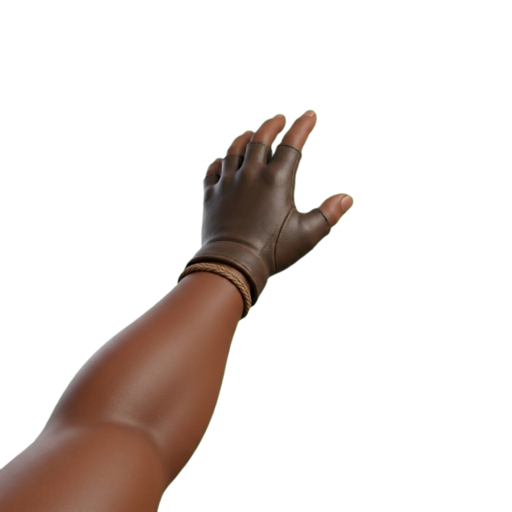
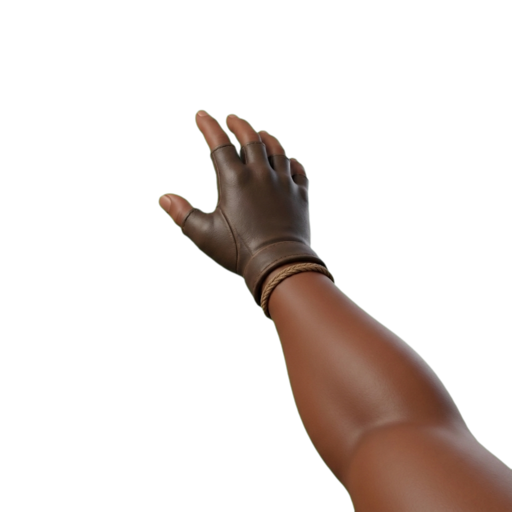
Realistic cockpit view and panel, and smoother cockpit hands
- Windshield view: the base camp's volcano and sunset at the end of the
  strip, a perspective dirt runway and grass that scroll as you roll, and
  photo treelines receding down both sides.
- Panel in black crinkle-finish metal with warm light from the windshield,
  and a textured glareshield.
- Hands: Wren's hand art now faces the same way as the others, and a new
  reach glides from where the hand already is instead of snapping back.

diff --git a/cockpit.js b/cockpit.js
@@ -143,26 +143,121 @@ function zombieDepth(z, p, t, T) {
   return z.z0 + (z.zEnd - z.z0) * Math.pow(k, 0.7) - p.dist;
 }
 
+// ---------- photo art for the cockpit (assets/cockpit and the jungle's ground textures) ----------
+const photos = {};
+const photo = src => photos[src] || (photos[src] = Object.assign(new Image(), { src }));
+const loaded = im => im.complete && im.naturalWidth > 0;
+['assets/cockpit/sky.webp', 'assets/cockpit/treeline.webp', 'assets/cockpit/panel.jpg', 'assets/cockpit/glare.jpg', 'assets/jungle/strip.jpg', 'assets/jungle/clear.jpg'].forEach(photo);
+const pats = new Map();
+function photoPattern(ctx, src) {
+  const key = src;
+  if (pats.has(key)) return pats.get(key);
+  const im = photo(src);
+  if (!loaded(im)) return null;
+  const pt = ctx.createPattern(im, 'repeat');
+  pats.set(key, pt);
+  return pt;
+}
+
+// The ground ahead in true perspective: each screen row is a slice of the dirt strip and the grass beside it,
+// at the depth that row looks at. As the plane rolls, the texture slides toward you, so the runway really moves.
+function photoGround(ctx, p, hy, camH, cx, W, L, R, bottom) {
+  const strip = photoPattern(ctx, 'assets/jungle/strip.jpg'), grass = photoPattern(ctx, 'assets/jungle/clear.jpg');
+  if (!strip || !grass || !strip.setTransform) return false;
+  const TILE = 1.6;   // world units per texture tile
+  for (let y = Math.ceil(hy + 1); y < bottom; y += 2) {
+    const z = camH / (y - hy);
+    if (z > 400) continue;
+    const s = W * 0.22 / z * TILE / 512, v = (z + p.dist) * 512 / TILE;
+    const m = new DOMMatrix().translate(cx, y).scale(s, s).translate(0, -v);
+    grass.setTransform(m); ctx.fillStyle = grass; ctx.fillRect(L, y, R - L, 2);
+    const half = W * 0.22 / z;   // the strip runs from x = -1 to x = 1
+    strip.setTransform(m); ctx.fillStyle = strip; ctx.fillRect(cx - half, y, half * 2, 2);
+  }
+  // the far end fades into the dusk haze, and the ground darkens toward you away from the sunset
+  const haze = ctx.createLinearGradient(0, hy, 0, hy + 70);
+  haze.addColorStop(0, 'rgba(150,90,110,0.85)'); haze.addColorStop(1, 'rgba(150,90,110,0)');
+  ctx.fillStyle = haze; ctx.fillRect(L, hy, R - L, 70);
+  const dusk = ctx.createLinearGradient(0, hy, 0, bottom);
+  dusk.addColorStop(0, 'rgba(40,20,50,0.15)'); dusk.addColorStop(1, 'rgba(20,10,25,0.45)');
+  ctx.fillStyle = dusk; ctx.fillRect(L, hy, R - L, bottom - hy);
+  return true;
+}
+// the jungle on both sides of the strip: one continuous photo treeline per side, receding in perspective.
+// It is drawn as thin vertical slices from the far end toward you; each slice samples the photo at its true
+// proportions, and the photo scrolls with the distance rolled, so the trees slide past as you speed up.
+const hazed = [];
+function hazeCopies(im) {
+  if (hazed.length) return hazed;
+  for (const a of [0, 0.25, 0.5, 0.7]) {   // dusk haze baked into copies, so it only tints the trees themselves
+    const c = document.createElement('canvas'); c.width = im.naturalWidth; c.height = im.naturalHeight;
+    const g = c.getContext('2d'); g.drawImage(im, 0, 0);
+    if (a) { g.globalCompositeOperation = 'source-atop'; g.fillStyle = `rgba(120,80,110,${a})`; g.fillRect(0, 0, c.width, c.height); }
+    hazed.push(c);
+  }
+  return hazed;
+}
+function photoTrees(ctx, p, t, hy, camH, sx, proj, L, R) {
+  const im = photo('assets/cockpit/treeline.webp');
+  if (!loaded(im)) return false;
+  const copies = hazeCopies(im), iw = im.naturalWidth, ih = im.naturalHeight;
+  const W = VW, TREE_H = 1.5;            // trees a bit taller than the strip is wide
+  const pxPerUnit = ih / TREE_H;         // photo pixels per world unit along the wall, keeping its proportions
+  for (const side of [-1, 1]) {
+    let prevX = null;
+    for (let z = 70; z > 0.6; z *= 0.93) {
+      const zn = z * 0.93;
+      const xa = sx(side * 2.3, z), xb = sx(side * 2.3, zn);
+      const w = Math.abs(xb - xa) + 1;
+      const h = W * 0.22 * TREE_H / z, gy = proj(z) + 3;
+      const left = Math.min(xa, xb);
+      if (left > R + 20 || left + w < L - 20) continue;
+      let u = ((z + p.dist) * pxPerUnit * (side < 0 ? 1 : 0.83) + (side < 0 ? 0 : iw * 0.5)) % iw;
+      const du = Math.max(1, (z - zn) * pxPerUnit);
+      if (u + du > iw) u = 0;
+      const lvl = z > 30 ? 3 : z > 15 ? 2 : z > 6 ? 1 : 0;
+      ctx.drawImage(copies[lvl], u, 0, du, ih, left, gy - h, w, h);
+      prevX = xb;
+    }
+    void prevX;
+  }
+  return true;
+}
+
 // ---------- the view out the windshield ----------
 function world(ctx, p, t, L, R) {
   const W = VW, winH = WIN, cx = 800;
+  const sky = photo('assets/cockpit/sky.webp');
+  const usePhoto = loaded(sky) && loaded(photo('assets/jungle/strip.jpg')) && loaded(photo('assets/jungle/clear.jpg')) && loaded(photo('assets/cockpit/treeline.webp'));
   const pitch = p.airborne ? Math.min(1, (t - p.finishT) * 0.8) * 0.22
     : p.rotT * 0.1 + (p.stall ? Math.abs(Math.sin(t * 14)) * 0.04 : 0);
-  const hy = winH * (0.6 + pitch);
+  const hy = winH * ((usePhoto ? 0.68 : 0.6) + pitch);   // the photo view sits the horizon a little lower, for more sky
   const camH = winH * 0.2 * (1 + p.alt * 3);
   const proj = z => hy + camH / z;
   const sx = (x, z) => cx + x * W * 0.22 / z;
 
   // the same island as the title and story: dusk sky, volcano, far hills, distant palms, fog, fireflies
   // (wide enough that the volcano sits right at the end of the strip)
-  const SH = 640, top = hy - 0.62 * SH;
-  const SW = Math.max((cx - L) / 0.245, (R - cx) / 0.755) + 40, left = cx - 0.245 * SW;
-  ctx.save(); ctx.translate(left, top);
-  G.Scene.paint(ctx, SW, SH, t, { backdrop: true, px: 0.9 });
-  ctx.restore();
-  ctx.fillStyle = '#15231a'; ctx.fillRect(L, hy + 18, R - L, 900);
-  // the dirt strip
+  if (usePhoto) {
+    // the dusk sky across the whole windshield, then the same volcano you saw from base camp, at the end of the strip
+    const grad = ctx.createLinearGradient(0, hy - 420, 0, hy + 10);
+    grad.addColorStop(0, '#2a2048'); grad.addColorStop(0.55, '#4a2f5c'); grad.addColorStop(0.85, '#a8554a'); grad.addColorStop(1, '#3a2230');
+    ctx.fillStyle = grad; ctx.fillRect(L, -900, R - L, hy + 910);
+    const sw = 760, sh = sw * sky.naturalHeight / sky.naturalWidth;
+    ctx.drawImage(sky, cx - sw / 2, hy + 14 - sh, sw, sh);
+    photoGround(ctx, p, hy, camH, cx, W, L, R, WIN + 60);
+    photoTrees(ctx, p, t, hy, camH, sx, proj, L, R);
+  } else {
+    const SH = 640, top = hy - 0.62 * SH;
+    const SW = Math.max((cx - L) / 0.245, (R - cx) / 0.755) + 40, left = cx - 0.245 * SW;
+    ctx.save(); ctx.translate(left, top);
+    G.Scene.paint(ctx, SW, SH, t, { backdrop: true, px: 0.9 });
+    ctx.restore();
+    ctx.fillStyle = '#15231a'; ctx.fillRect(L, hy + 18, R - L, 900);
+  }
   const zN = 0.3, zF = 80;
+  if (!usePhoto) {
+  // the dirt strip
   ctx.fillStyle = '#8b6a45';
   ctx.beginPath();
   ctx.moveTo(sx(-1, zF), proj(zF)); ctx.lineTo(sx(1, zF), proj(zF));
@@ -200,6 +295,18 @@ function world(ctx, p, t, L, R) {
       const xw = side * (2.5 + ((k * 37) % 7) / 10);
       if (sx(xw, z) < L - 200 || sx(xw, z) > R + 200) continue;
       G.Scene.palm(ctx, sx(xw, z), proj(z) - winH * 0.15 / z, winH * (0.42 + ((k * 13) % 5) / 14) / z, -side * 0.4, Math.sin(t * 0.8 + k), shade('#0e1a14', 1, haze * 0.8));
+    }
+  }
+  }
+  // edge markers along the strip (both looks)
+  if (usePhoto) {
+    const off = p.dist % 2;
+    for (let k = 0; k < 30; k++) {
+      const z = k * 2 + 1 - off;
+      if (z < zN + 0.05) continue;
+      const y = proj(z), sz = W * 0.012 / z;
+      ctx.fillStyle = `rgba(232,226,208,${clamp(1 - z / 50, 0.15, 0.9)})`;
+      ctx.fillRect(sx(-1.08, z) - sz, y - sz * 0.5, sz * 2, sz); ctx.fillRect(sx(1.08, z) - sz, y - sz * 0.5, sz * 2, sz);
     }
   }
   const mist = ctx.createLinearGradient(0, hy - 30, 0, hy + 60);
@@ -573,12 +680,31 @@ function panel(ctx, p, t, L, R, B, opt) {
   const kneeboard = B > 1300 && !opt.mini;
   interior(ctx, p, t, L, R, B, kneeboard);
   ctx.fillStyle = '#141416'; rr(ctx, 14, 438, VW - 28, 386, 26); ctx.fill();
+  // real crinkle-finish panel paint, lit warm from the windshield above and falling off toward your knees
+  const metal = photoPattern(ctx, 'assets/cockpit/panel.jpg');
+  if (metal) {
+    ctx.save(); rr(ctx, 14, 438, VW - 28, 386, 26); ctx.clip();
+    ctx.globalAlpha = 0.9; ctx.fillStyle = metal; ctx.fillRect(14, 438, VW - 28, 386); ctx.globalAlpha = 1;
+    const lightG = ctx.createLinearGradient(0, 438, 0, 824);
+    lightG.addColorStop(0, 'rgba(255,170,120,0.10)'); lightG.addColorStop(0.35, 'rgba(0,0,0,0)'); lightG.addColorStop(1, 'rgba(0,0,0,0.35)');
+    ctx.fillStyle = lightG; ctx.fillRect(14, 438, VW - 28, 386);
+    ctx.restore();
+  }
   // scuffs and scratches on the old panel paint
   ctx.strokeStyle = 'rgba(255,255,255,0.05)'; ctx.lineWidth = 1;
   for (let k = 0; k < 14; k++) { const x = 40 + (k * 211) % 1500, y = 450 + (k * 97) % 360; ctx.beginPath(); ctx.moveTo(x, y); ctx.lineTo(x + 18 + (k % 4) * 9, y + 4 - (k % 3) * 3); ctx.stroke(); }
   // glareshield
-  ctx.fillStyle = '#0d0d0f';
+  const vinyl = photoPattern(ctx, 'assets/cockpit/glare.jpg');
+  ctx.fillStyle = vinyl || '#0d0d0f';
   ctx.beginPath(); ctx.moveTo(L, 412); ctx.quadraticCurveTo(800, 384, R, 412); ctx.lineTo(R, 466); ctx.quadraticCurveTo(800, 446, L, 466); ctx.closePath(); ctx.fill();
+  if (vinyl) {   // the sunset catching the top edge of the glareshield, and its shadow on the panel below
+    const sheen = ctx.createLinearGradient(0, 390, 0, 466);
+    sheen.addColorStop(0, 'rgba(255,160,120,0.18)'); sheen.addColorStop(0.3, 'rgba(0,0,0,0.25)'); sheen.addColorStop(1, 'rgba(0,0,0,0.55)');
+    ctx.fillStyle = sheen; ctx.fill();
+    const under = ctx.createLinearGradient(0, 462, 0, 520);
+    under.addColorStop(0, 'rgba(0,0,0,0.55)'); under.addColorStop(1, 'rgba(0,0,0,0)');
+    ctx.fillStyle = under; ctx.fillRect(14, 462, VW - 28, 58);
+  }
   for (let x = 60; x < VW; x += 150) screw(ctx, x, 478);
 
   // placards like a real panel

diff --git a/hands.js b/hands.js
@@ -52,8 +52,11 @@ function target(p, ctrl) {
 }
 
 // Called when the player works a control. `hold` keeps the hand there until release().
+// If the hand is still out (on its way back, or on another control), it glides from where it is instead of
+// snapping back off screen first; that snap was the glitch when working controls quickly one after another.
 G.reach = (p, ctrl, hold) => {
-  p.hand = { ctrl, seq: (p.hand ? p.hand.seq : 0) + 1, start: performance.now(), hold: !!hold, release: 0, shaky: false };
+  const from = p.handAt && performance.now() - p.handAt.when < 120 ? { x: p.handAt.x, y: p.handAt.y, left: p.handAt.left } : null;
+  p.hand = { ctrl, seq: (p.hand ? p.hand.seq : 0) + 1, start: performance.now(), hold: !!hold, release: 0, shaky: false, from };
 };
 G.releaseHand = p => { if (p.hand && p.hand.hold) { p.hand.hold = false; p.hand.release = performance.now(); } };
 
@@ -98,10 +101,14 @@ G.drawHands = (ctx, p, t, opt) => {
     const leave = h.release ? (now - h.release) / 1000 : el - REACH - PRESS;
     k = leave < 0 ? 1 : 1 - easeIn(clamp(leave / BACK, 0, 1));
   }
-  if (k <= 0.001) return;
+  if (k <= 0.001) { p.handAt = null; return; }
   const left = tgt[0] < 560;
   const rest = left ? REST_L : REST_R;
-  let x = rest[0] + (tgt[0] - rest[0]) * k, y = rest[1] + (tgt[1] - rest[1]) * k;
+  // reaching out starts from where this same hand already was; heading back always goes to rest
+  const reaching = el < REACH;
+  const start = reaching && h.from && h.from.left === left ? [h.from.x, h.from.y] : rest;
+  let x = start[0] + (tgt[0] - start[0]) * k, y = start[1] + (tgt[1] - start[1]) * k;
+  if (!reaching && k < 1) { x = rest[0] + (tgt[0] - rest[0]) * k; y = rest[1] + (tgt[1] - rest[1]) * k; }
   // a quick press: the hand pushes in and squashes a little right after arriving
   const pressK = el > REACH ? clamp(1 - (el - REACH) / 0.14, 0, 1) : 0;
   const squash = 1 - 0.06 * pressK;
@@ -113,5 +120,6 @@ G.drawHands = (ctx, p, t, opt) => {
   const shake = h.shaky && el < 1 ? 7 : 0;
   const [jx, jy] = jitter(tremble + shake);
   drawHand(ctx, char, x + jx, y + jy, left, rot, squash);
+  p.handAt = { x, y, left, when: now };
 };
 })();
